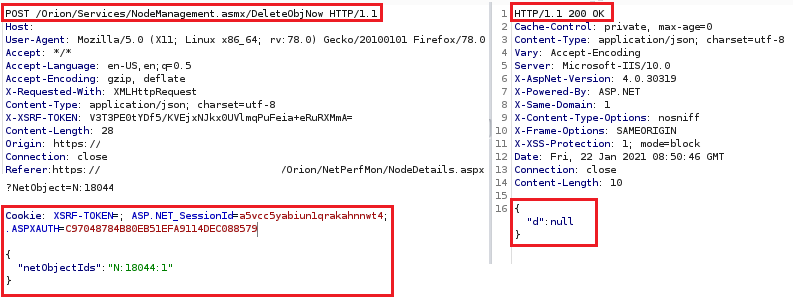
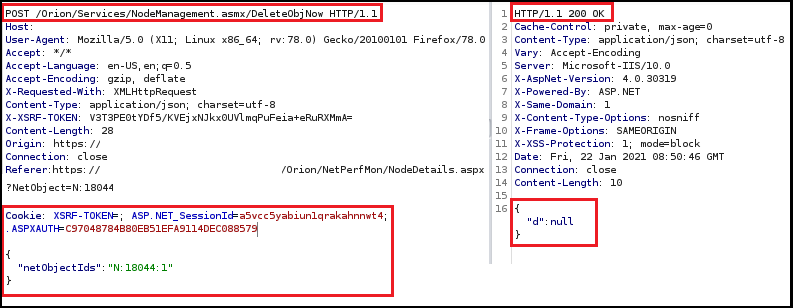
Mise à jour de l'article Orion SolarWinds

Changed region(s): [[0.0, 0.0, 1.0, 1.0]]

diff --git a/_posts/2021-08-23-Orion-SolarWinds-ma-premiere-cve-2021-28674.md b/_posts/2021-08-23-Orion-SolarWinds-ma-premiere-cve-2021-28674.md
@@ -6,10 +6,10 @@ description: "Cet article décrit comment j'ai pu découvrir ma première CVE (C
 lang: fr_FR
 category: solarwinds,orion,cve,pentest,cve-2021-28674
 ---
-![Orion SolarWinds : Ma première CVE (CVE-2021-28674)](/assets/images/2021-08-23-Orion-SolarWinds-ma-premiere-cve-2021-28674/illustration.PNG)
+![Orion SolarWinds : Ma première CVE (CVE-2021-28674)](/assets/images/2021-08-23-Orion-SolarWinds-ma-premiere-cve-2021-28674/illustration.jpg)
 
-SolarWinds Orion Platform est une plate-forme évolutive de gestion et de surveillance de l’infrastructure qui simplifie la gestion informatique des environnements sur site, hybrides et SaaS, sur un seul écran.
-En décembre 2020, une cyber attaque à grande échelle s'appuyant sur SolarWinds Orion, utilisé par environ 33 000 clients des secteurs public et privé, est divulguée.
+**Orion SolarWinds** est une plateforme évolutive de gestion et de surveillance de l’infrastructure qui simplifie la gestion informatique des environnements sur site, hybrides et SaaS, sur un seul écran.
+En décembre 2020, une cyber attaque à grande échelle s'appuyant sur Orion SolarWinds, utilisé par environ 33 000 clients des secteurs public et privé, est divulguée.
 Suite à cela, de nombreux audits sont organisés et des CVE régulièrement trouvées. J'ai moi même pu auditer cette application, trouver et déclarer ma première CVE (CVE-2021-28674) de CVSS 4.6 (criticité moyenne) en date du 18 mars 2021.
 Après plusieurs mois d'échanges avec l'éditeur et [MITRE](https://cve.mitre.org/cgi-bin/cvename.cgi?name=CVE-2021-28674) pour s'accorder sur la correction et la date de publication, je peux enfin publier cet article car la mise à jour est déjà sortie depuis plusieurs semaines.
 
@@ -18,7 +18,7 @@ Le contrôle d'accès permet d'appliquer une politique telle que les utilisateur
 
 ## Fonctionnalité de gestion des nœuds
 Orion SolarWinds NPM permet de créer des groupes. Un groupe est un ensemble d'objets surveillés. Par exemple, un administrateur peut regrouper les nœuds d'un même emplacement, regrouper toutes les interfaces WAN ou regrouper tous les appareils appartenant à un certain service. L'objectif final de la création de groupes est de permettre de visualiser certains nœuds selon les utilisateurs et de créer un contrôle d'accès sur les nœuds.
-La page de gestion des nœuds avec le paramètre NetObject permet de visualiser et de supprimer le nœud **si l'utilisateur a les droits** en spécifiant l'identifiant du nœud (Par exemple : https://URL-INTERNE/Orion/NetPerfMon/NodeDetails.aspx?NetObject=N:17158).
+La page de gestion des nœuds avec le paramètre NetObject permet de visualiser et de supprimer le nœud **si l'utilisateur a les droits** en spécifiant l'identifiant du nœud (Par exemple : `https://URL-INTERNE/Orion/NetPerfMon/NodeDetails.aspx?NetObject=N:17158`).
 Seuls les utilisateurs disposant du **droit d'écriture** peuvent supprimer un nœud **appartenant à leur périmètre**.
 
 
